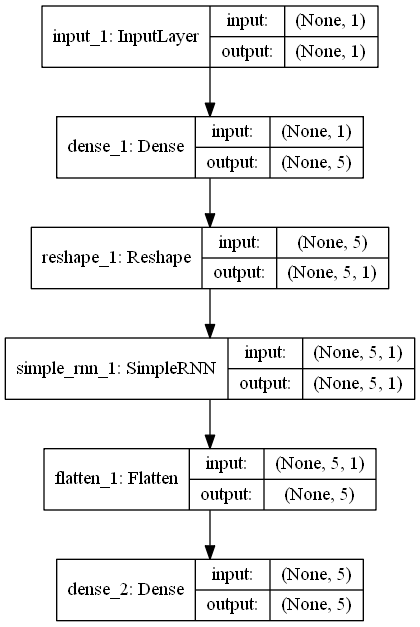
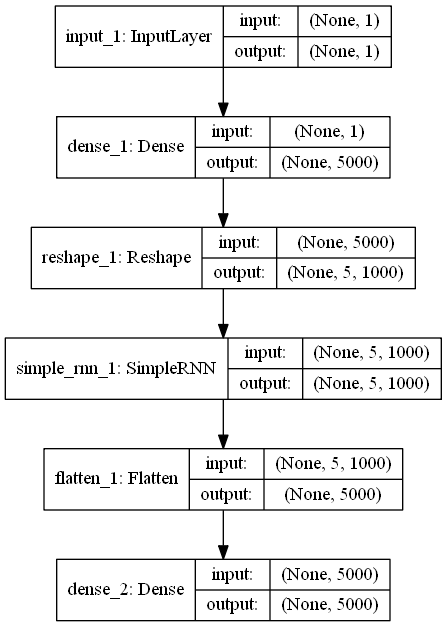
Add progress bar to dataset generation

diff --git a/src/utils/input_utils.py b/src/utils/input_utils.py
@@ -19,6 +19,7 @@ to be used as inputs to the neural networks.
 import numpy as np
 import random as rng
 from keras import Model
+from tqdm import tqdm
 
 
 def get_jerry_training_dataset(batch_size, num_of_batches, unique_seeds_per_batch, max_val) -> (np.ndarray, np.ndarray):
@@ -48,7 +49,7 @@ def get_discriminator_training_dataset(generator: Model, batch_size, num_of_batc
     produced by the generator."""
     dataset = []
     labels = []
-    for i in range(num_of_batches):
+    for i in tqdm(range(num_of_batches), 'Generating training dataset'):
         data_batch = [get_random_sequence(sequence_length, max_val) for i in range(int(batch_size / 2))]
         data_batch.extend(generator.predict(get_random_sequence(batch_size / 2, max_val)))
         labels_batch = [1 for i in range(int(batch_size / 2))]

diff --git a/src/main.py b/src/main.py
@@ -85,7 +85,6 @@ def main():
     """ Constructs the neural networks, trains them, and logs
     all relevant information."""
     # available args: -t, -nodisc, -nopred, -noemail
-    process_cli_arguments()
 
     # train discriminative GAN
     if TRAIN[0]:
